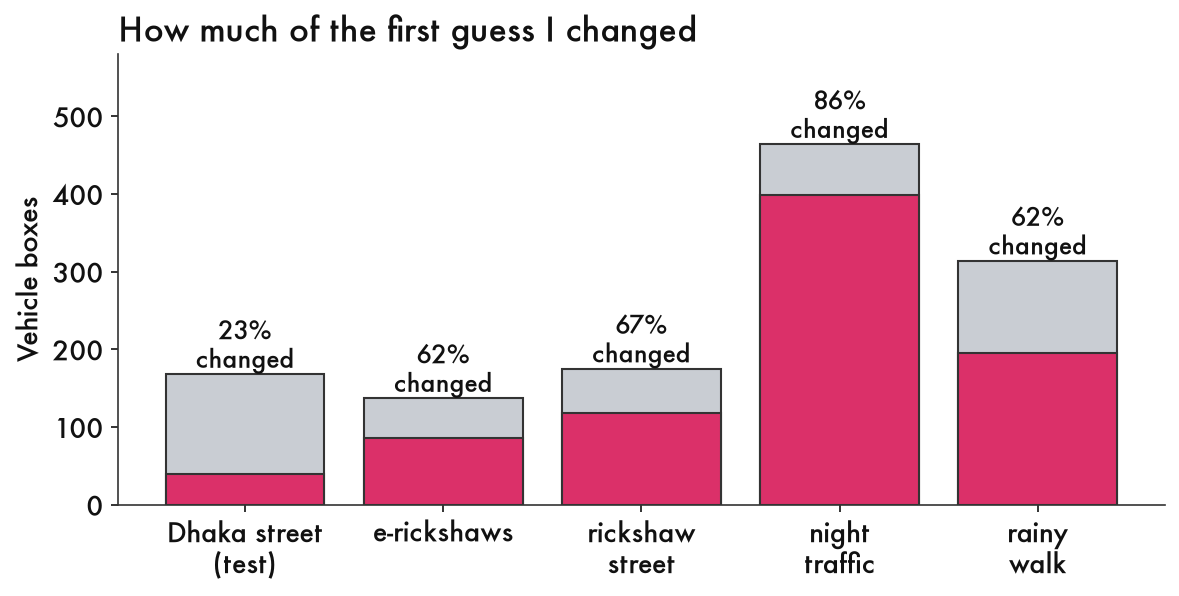
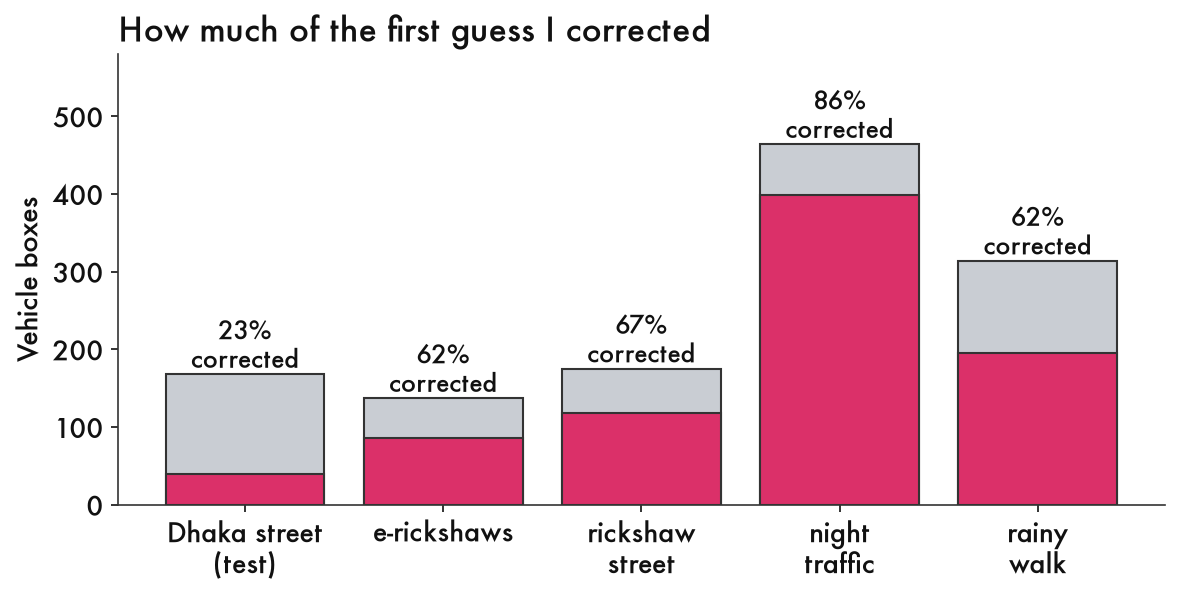
README: corrected wording, plain-language fixes, verified product feedback, crisper hero
Trims the test section to four pictures (the rest move to docs/DETAILS.md),
labels untested explanations as guesses, and rewrites the product feedback
from items checked against the library.

diff --git a/scripts/make_charts.py b/scripts/make_charts.py
@@ -55,9 +55,9 @@ for c in names:
     tot.append(len(veh)); fixed.append(sum(1 for a in veh if a.get("corrected")))
 fig, ax = plt.subplots(figsize=(9, 3.9))
 ax.bar(range(len(names)), tot, color=GRAY, edgecolor="#333"); ax.bar(range(len(names)), fixed, color=RICK, edgecolor="#333")
-for i, (t, f) in enumerate(zip(tot, fixed)): ax.text(i, t + 8, f"{round(100 * f / t)}%\nchanged", ha="center", fontsize=12)
+for i, (t, f) in enumerate(zip(tot, fixed)): ax.text(i, t + 8, f"{round(100 * f / t)}%\ncorrected", ha="center", fontsize=12)
 ax.set_xticks(range(len(names))); ax.set_xticklabels(list(names.values())); ax.set_ylim(0, max(tot) * 1.25)
-ax.set_ylabel("Vehicle boxes"); ax.set_title("How much of the first guess I changed", loc="left", fontsize=16)
+ax.set_ylabel("Vehicle boxes"); ax.set_title("How much of the first guess I corrected", loc="left", fontsize=16)
 save(fig, "chart_corrections.png")
 
 # 4) what the model had to learn from (explains why motorcycles got worse)

diff --git a/README.md b/README.md
@@ -4,13 +4,13 @@
 
 ![The fine-tuned model on a Dhaka street clip it never trained on](media/hero_dhaka_street.gif)
 
-*The Dhaka street clip, which the model never trained on. Heads are blurred. It gets some things right and misses others, and this page shows both.*
+*The Dhaka street clip, which RF-DETR never trained on. Blue is a person, pink a rickshaw, purple a motorcycle, amber a bicycle, yellow-green a cart. It finds most of the motorcycles and bicycles, some of the rickshaws, and almost none of the carts. Heads are blurred.*
 
 ## Reasons to try Roboflow's open source tools
 
 I wanted to understand the product by using it. I found it easy to stand up and onboard, and the speed is good.
 
-- **Plug and play, with intelligent modeling from RF-DETR.** All I needed was videos I downloaded. RF-DETR's pretrained model drew a first set of labels, so I fixed mistakes instead of drawing every box myself. On the busy Dhaka street I only had to change 39 of 168 boxes. On the clips that were mostly rickshaws it needed far more fixing, about two thirds.
+- **Plug and play, with intelligent modeling from RF-DETR.** All I needed was videos I downloaded. RF-DETR's pretrained model drew a first set of labels, so I corrected its mistakes instead of drawing every box myself. On the busy Dhaka street I only had to correct 39 of 168 boxes. On the clips that were mostly rickshaws it needed far more correcting, about two thirds.
 - **RF-DETR learned an unknown concept from a handful of examples.** It had no word for a rickshaw. I trained it on 141 pictures, but they show only about five different rickshaws, many of them near-copies of each other. About 10 to 15 minutes of training later, on a laptop, it found about 130 of 163 rickshaws in a clip it had never seen, up from 45 with the original setup.
 - **Easy to customize and tune.** supervision let me change how vehicles are followed, how steady the boxes are, what gets blurred, and how everything is drawn, with a few settings each.
 - **Everything ran on one laptop,** at about 30 milliseconds per picture.
@@ -45,39 +45,31 @@ It got things wrong in specific ways. On a night clip it drew 425 "rickshaw" box
 
 ## Something I noticed
 
-I changed far more of the model's guesses on the clips with less variety than on the varied one.
+I corrected far more of the model's guesses on the clips with less variety than on the varied one.
 
-![How much of the first guess I changed](media/chart_corrections.png)
+![How much of the first guess I corrected](media/chart_corrections.png)
 
-On the busy Dhaka street, with people, motorcycles, bicycles, carts and rickshaws mixed together, I changed 23% of the boxes. On the two clips that were mostly rickshaws I changed 62% and 67%. Night traffic was 86%, almost all of it cars called rickshaws. My reading, which I have not tested: the first-pass tools already handle everyday objects well, so a scene full of everyday objects needs little fixing, and a scene that is mostly the one thing they have no word for needs fixing nearly everywhere.
+On the busy Dhaka street, with people, motorcycles, bicycles, carts and rickshaws mixed together, I corrected 23% of the boxes. On the two clips that were mostly rickshaws I corrected 62% and 67%. Night traffic was 86%, almost all of it cars called rickshaws. My reading, which I have not tested: the first-pass tools already handle everyday objects well, so a scene full of everyday objects needs little correcting, and a scene that is mostly the one thing they have no word for needs correcting nearly everywhere.
 
 ## Does fine-tuning help? It depends on the footage.
 
-Each test scores the model on a clip it never trained on, against my corrected labels.
+"Fine-tuned" means RF-DETR trained further on my own corrected labels. Each test scores the model on a clip it never trained on, against my corrected labels.
 
 ![Three tests](media/chart_two_tests.png)
 
 **Test 1: a street like the ones it trained on.** I trained on the Dhaka street and e-rickshaw clips and tested on the rickshaw street clip. The original pipeline found 45 of 163 rickshaws and called 118 of them carts or bicycles. The fine-tuned model found about 130 (I trained it twice: 131 and 135).
 
-![What happened to every rickshaw on the rickshaw street clip](media/chart_rickshaw_outcomes_street.png)
-
-![Before and after](media/before_after_rickshaw_street.gif)
-
 ![Three frames where it gained](media/where_it_wins_rickshaw_street.jpg)
 
-**Test 2: a street unlike its training footage.** I trained on the rickshaw street and e-rickshaw clips and tested on the Dhaka street clip. It did worse than the original pipeline (0.44 against 0.81). Adding the night and rainy clips helped, to 0.54, but it stayed below. The biggest gap is carts: the original pipeline found 41 of 49 and the fine-tuned model found 1. The carts in this market are metal trolleys piled with goods, and the training footage had banana carts.
-
-![What happened to every rickshaw on the Dhaka street clip](media/chart_rickshaw_outcomes_dhaka.png)
+**Test 2: a street unlike its training footage.** I trained on the rickshaw street and e-rickshaw clips and tested on the Dhaka street clip. It did worse than the original pipeline (0.44 against 0.81). Adding the night and rainy clips helped, to 0.54, but it stayed below. The biggest gap is carts: the original pipeline found 41 of 49 and the fine-tuned model found 1. My guess: the carts in this market are metal trolleys piled with goods, and the training footage had banana carts and one umbrella cart, so the model had never seen this kind of cart. I have not tested that.
 
 ![Found, by kind of vehicle](media/chart_per_class.png)
 
 ![Where it did worse](media/where_it_is_worse_dhaka.jpg)
 
-![Before and after on the Dhaka street](media/before_after_dhaka.gif)
-
 My answer keys started as the original pipeline's own boxes, which flatters it. It still lost on the rickshaw street, so that does not explain Test 1, but it probably explains some of the gap in Test 2. More in [docs/DETAILS.md](docs/DETAILS.md).
 
-**The takeaway.** Fine-tuning fixed what it was shown, on scenes like the ones it was shown. It did not carry over to a scene full of things it had never seen, and the text-prompt pipeline was better there. A hybrid is the obvious next step, and so is footage that includes the market's carts.
+**The takeaway.** Fine-tuning worked on what it was shown, on scenes like the ones it was shown. It did not carry over to a scene with kinds of carts it had not seen, and the text-prompt pipeline was better there. A hybrid is the obvious next step, and so is footage that includes the market's carts.
 
 ## What it still gets wrong
 
@@ -89,13 +81,15 @@ My answer keys started as the original pipeline's own boxes, which flatters it. 
 - Carts and rickshaws in a crowd are the hardest cases.
 - People were not hand-reviewed, so they are left out of every score.
 
-## Rough edges I hit (rfdetr 1.11.1, supervision 0.30.6)
+## Product feedback (rfdetr 1.11.1, supervision 0.30.6)
 
-- The pretrained model returns category numbers 1 to 90 with gaps, but the name list the library ships runs 0 to 79. Mixing them shifted every label by one, and my first video tagged people as "bicycle."
-- An import path from older examples (`rfdetr.util`) was removed in version 1.9. The class names now live in `rfdetr.assets.coco_classes`.
-- Training needs the `rfdetr[train]` extra, and on macOS it must run inside `if __name__ == "__main__":` or the data loader crashes.
-- My fine-tuned model sometimes returned a seventh class number that does not exist. I filter it out.
-- OpenCV's `mp4v` video output showed as a solid green screen in some players. H.264 with `yuv420p` fixes it.
+Things that cost me time, and what I would suggest. Each one I checked against the library before writing it down.
+
+- **The names and the numbers don't line up.** The model reports each object as a number (person is 1, bicycle is 2, and so on up to 90, with some numbers skipped). The list of 80 names that comes with the library starts at zero. Looking up a name by that number lands on the wrong object, and every label in my first video was off by one: people came out as "bicycle." *Suggestion:* return the names, or a number-to-name dictionary, along with the detections.
+- **The error for a removed import points to the wrong place.** `rfdetr.util` was removed in version 1.9. The error says to use `rfdetr.utilities`, but the class names are not there. They are in `rfdetr.assets.coco_classes`. *Suggestion:* name the real location in the message.
+- **The model sometimes returns a kind of object that does not exist.** After training on six kinds of objects, it occasionally returned a seventh number. It showed up on 11 boxes in one night clip. I filter it out, and I do not know the cause. *Suggestion:* document it, or do not return it.
+- **The deprecation warnings do not say what to use instead.** `RFDETRBase` (deprecated since 1.7.0) and `ByteTrack` (deprecated since supervision 0.28.0) print a warning that names the version they will be removed in, but not a replacement.
+- **Training took one extra install and one extra rule on a Mac.** `model.train` fails until you install `rfdetr[train]`. That error is clear and tells you the command. On macOS the training script also crashes unless it is wrapped in `if __name__ == "__main__":`. That is a standard Python rule, but the error you get is a generic one that does not mention it. *Suggestion:* put both in the quickstart.
 
 ## More
 

diff --git a/docs/DETAILS.md b/docs/DETAILS.md
@@ -44,6 +44,24 @@ I looked for frames where it found more rickshaws than the original pipeline. Th
 
 ![What the final model learned from](../media/chart_training_boxes.png)
 
+## More pictures from the two tests
+
+**Test 1, the rickshaw street.** What happened to every rickshaw, and before and after:
+
+![What happened to every rickshaw on the rickshaw street clip](../media/chart_rickshaw_outcomes_street.png)
+
+![Before and after on the rickshaw street](../media/before_after_rickshaw_street.gif)
+
+**Test 2, the Dhaka street.** What happened to every rickshaw, and before and after:
+
+![What happened to every rickshaw on the Dhaka street clip](../media/chart_rickshaw_outcomes_dhaka.png)
+
+![Before and after on the Dhaka street](../media/before_after_dhaka.gif)
+
+## A video gotcha that was mine, not Roboflow's
+
+A slideshow I made with OpenCV's `mp4v` codec showed as a solid green screen in the player I used. Writing H.264 with `yuv420p` fixed it. The videos made through supervision played fine.
+
 ## How the labels were corrected
 
 The first-pass labels came from the original pipeline: RF-DETR for people, bicycles and motorcycles, plus Grounding DINO with text like "a decorated three-wheeled cycle rickshaw" and "a push cart". The one rule: anything that carries a passenger behind a driver is a rickshaw, pedal or motorized.
